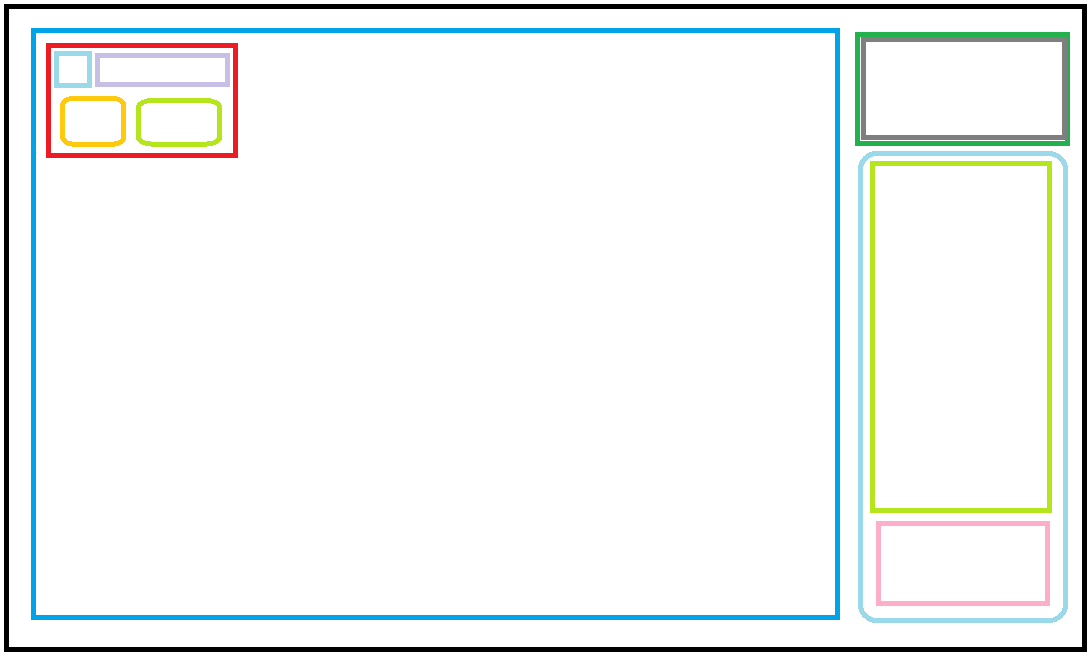
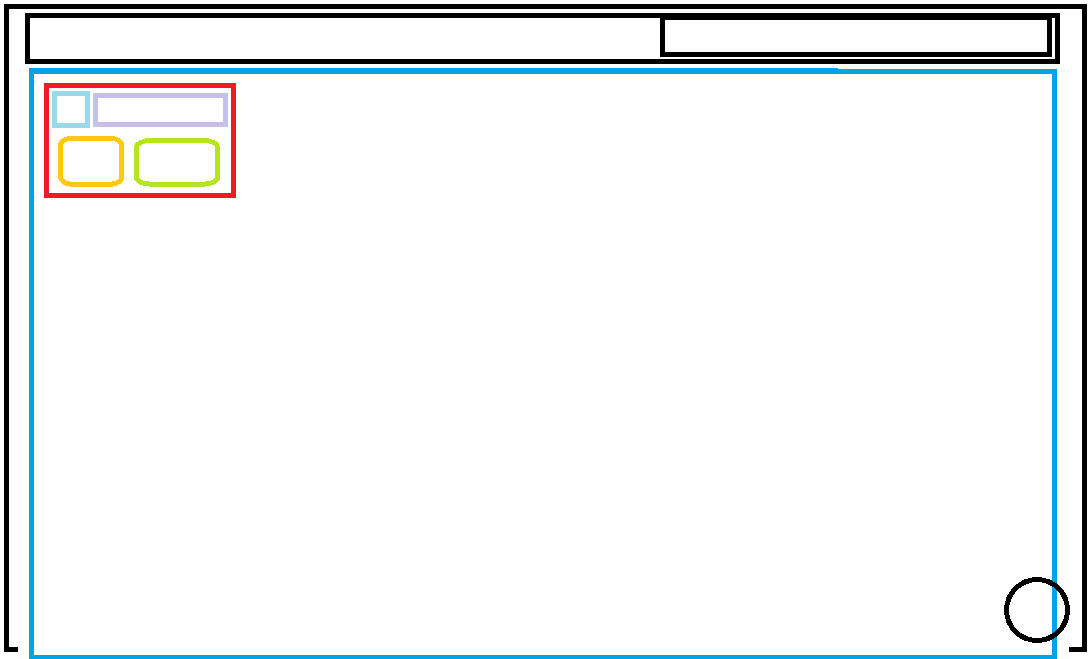
[UPDATE] Change structure

Changed region(s): [[0.0, 0.0, 0.9982, 1.0]]

diff --git a/src/Main/Item.tsx b/src/Main/Item.tsx
@@ -4,7 +4,7 @@ import './Item.css'
 
 function Item(props:any) {
     return <>
-        <Paper elevation={3} style={{float:'left'}} className="item">
+        <Paper id={props.id} elevation={3} style={{float:'left'}} className="item">
             <div className="profile">
                 <img src={props.img} width="32" height="32" alt={props.name}/>
                 <span className="nick">
@@ -16,11 +16,16 @@ function Item(props:any) {
             </div>
             <div className="buttons">
                 <Button variant="contained" color="primary">
-                Execute
+                    Execute
                 </Button>
                 <Button variant="contained" color="secondary">
-                Script
+                    Script
                 </Button>
+            </div>
+            <div className="script">
+                <textarea id={`script_${props.id}`}>
+                    {props.script}
+                </textarea>
             </div>
         </Paper>
     </>

diff --git a/src/Main/Main.tsx b/src/Main/Main.tsx
@@ -9,11 +9,14 @@ class Main extends React.Component {
         this.state = {
             items : [
                 {
+                    id : 0,
                     img : "Icon.png",
                     name : "Twitch",
-                    descript : "TEST"
+                    descript : "TEST",
+                    script: "console.log('this is test')"
                 },
                 {
+                    id : 1,
                     img : "Icon.png",
                     name : "Twitch",
                     descript : "TEST"
@@ -31,6 +34,7 @@ class Main extends React.Component {
   render() {
     return <div className="Main">
         {this.itemMapper(this.state.items)}
+        <iframe title="JustScript is Awesome" id="justscript_space" className="class"></iframe>
     </div>
   }
 }

diff --git a/src/App.css b/src/App.css
@@ -4,34 +4,6 @@
   padding: 0px;
 }
 
-body {
-  
-}
-
 .Main {
-  display: inline-block;
-  width: 75%;
-  box-sizing: border-box;
   padding: 30px;
 }
-
-.Nav {
-  text-align: center;
-  width: 25%;
-  height: 100vh;
-  float: right;
-  box-sizing: border-box;
-  padding: 10px;
-}
-
-.logoin {
-  padding: 10px;
-  margin-bottom: 20px;;
-}
-
-.Nav .chat {
-  display: block;
-  padding: 20px;
-}
-
-img { max-width: 100%; height: auto; }

diff --git a/src/Main/Item.css b/src/Main/Item.css
@@ -1,6 +1,7 @@
 .item {
     display: block;
-    width: 30%;
+    min-width: 200px;
+    width: 20%;
     padding: 10px;
     margin-left: 10px;
     margin-bottom: 10px;
@@ -8,6 +9,10 @@
 
 .descript {
     margin: 10px;
+}
+
+.script, .class {
+    display: none;
 }
 
 .profile img{

diff --git a/src/App.tsx b/src/App.tsx
@@ -1,14 +1,12 @@
 import React from 'react';
 import './App.css';
 import Main from './Main/Main'
-import Nav from './Nav/Nav'
 
 class App extends React.Component {
 
   render() {
     return <>
       <Main />
-      <Nav />
     </>
   }
 }
